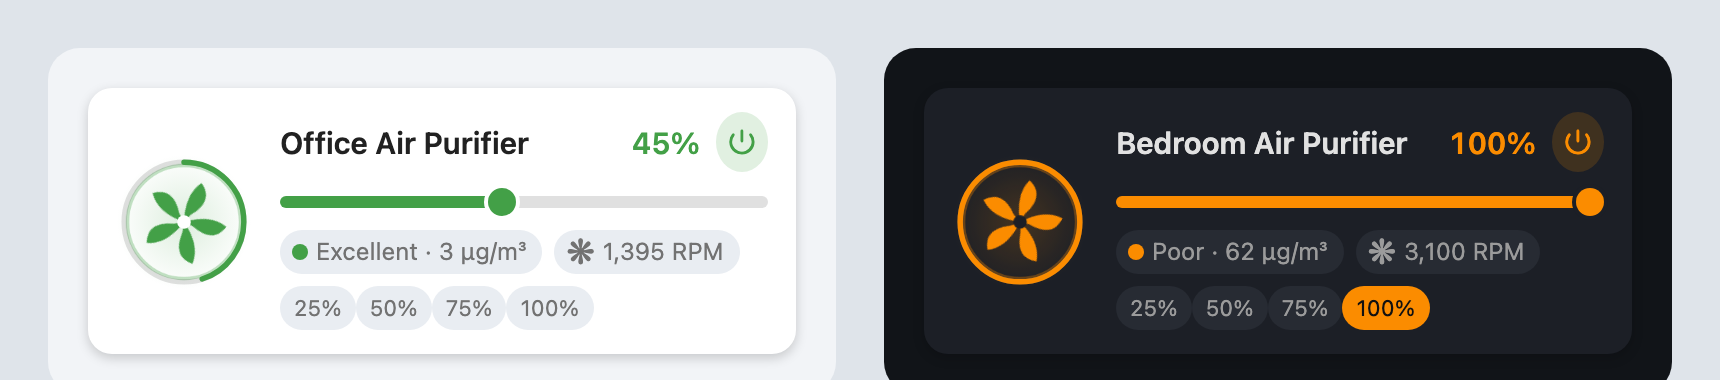
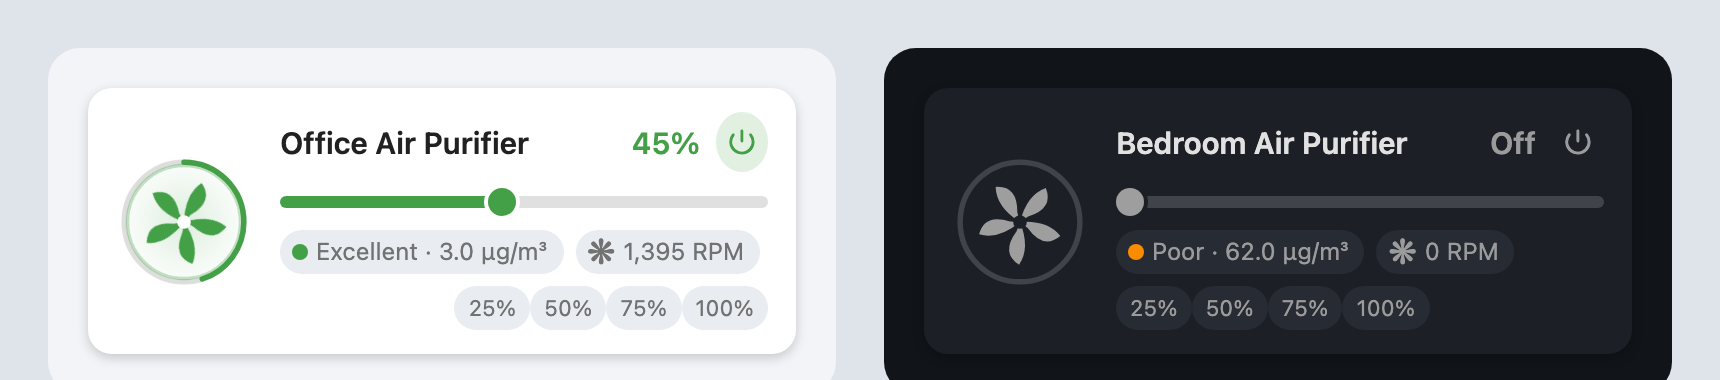
Grey the card when off and show PM2.5 with one decimal
The air quality colour now only tints the card while the purifier runs;
once it is off the ring, slider, percentage and blades fall back to the
idle grey, while the air quality dot keeps its colour so the reading
stays legible.

PM2.5 is rendered with a fixed single decimal (3.0 instead of 3).

diff --git a/dist/air-purifier-card.js b/dist/air-purifier-card.js
@@ -4,7 +4,7 @@
  * https://github.com/iharosi/air-purifier-card
  */
 
-const CARD_VERSION = "1.0.0";
+const CARD_VERSION = "1.1.0";
 
 console.info(
   `%c AIR-PURIFIER-CARD %c v${CARD_VERSION} `,
@@ -108,7 +108,10 @@ class AirPurifierCard extends HTMLElement {
   _build() {
     this.shadowRoot.innerHTML = `
       <style>
-        :host { --ap-accent: var(--state-fan-active-color, var(--primary-color, #03a9f4)); }
+        :host {
+          --ap-accent: var(--state-fan-active-color, var(--primary-color, #03a9f4));
+          --ap-idle-color: var(--disabled-text-color, #9e9e9e);
+        }
         ha-card {
           display: block;
           padding: 12px 14px;
@@ -172,7 +175,7 @@ class AirPurifierCard extends HTMLElement {
           transition: fill 0.4s ease;
         }
         .visual.on .blades { animation: spin var(--spin, 2s) linear infinite; }
-        .visual.off .blades { fill: var(--disabled-text-color, #9e9e9e); }
+        .visual.off .blades { fill: var(--ap-idle-color); }
         @keyframes spin { to { transform: rotate(360deg); } }
         .hub { fill: var(--card-background-color, #fff); }
         /* -------- body -------- */
@@ -419,6 +422,25 @@ class AirPurifierCard extends HTMLElement {
       cfg.name || fan?.attributes?.friendly_name || cfg.fan;
 
     const on = !!fan && fan.state === "on";
+
+    // Air quality drives the accent colour while the purifier runs. The chip's
+    // dot keeps that colour even when it is off, everything else turns grey.
+    const pmValue = num(pm);
+    const level = aqLevel(pmValue);
+    this._accent = pm ? level.color : null;
+    if (pm) {
+      el.pmChip.classList.remove("hidden");
+      el.pmDot.style.background = level.color;
+      const unit = pm.attributes.unit_of_measurement || "µg/m³";
+      el.pmText.textContent =
+        pmValue === null
+          ? `PM2.5 ${pm.state}`
+          : `${level.label} · ${pmValue.toFixed(1)} ${unit}`;
+      el.pmChip.title = pm.attributes.friendly_name || cfg.pm25;
+    } else {
+      el.pmChip.classList.add("hidden");
+    }
+
     const percentage = Math.round(
       fan?.attributes?.percentage ?? (on ? 100 : 0)
     );
@@ -428,24 +450,6 @@ class AirPurifierCard extends HTMLElement {
     if (!this._dragging) {
       el.slider.value = String(percentage);
       this._paint(percentage, on);
-    }
-
-    // air quality drives the accent colour of the whole card
-    const pmValue = num(pm);
-    const level = aqLevel(pmValue);
-    if (pm) {
-      this.style.setProperty("--ap-accent", level.color);
-      el.pmChip.classList.remove("hidden");
-      el.pmDot.style.background = level.color;
-      const unit = pm.attributes.unit_of_measurement || "µg/m³";
-      el.pmText.textContent =
-        pmValue === null
-          ? `PM2.5 ${pm.state}`
-          : `${level.label} · ${pmValue} ${unit}`;
-      el.pmChip.title = pm.attributes.friendly_name || cfg.pm25;
-    } else {
-      this.style.removeProperty("--ap-accent");
-      el.pmChip.classList.add("hidden");
     }
 
     if (rpm) {
@@ -487,9 +491,16 @@ class AirPurifierCard extends HTMLElement {
     });
   }
 
-  /** Paint ring, spin speed and percentage label. */
+  /** Paint accent colour, ring, spin speed and percentage label. */
   _paint(percentage, on) {
     const el = this._el;
+    if (!on) {
+      this.style.setProperty("--ap-accent", "var(--ap-idle-color)");
+    } else if (this._accent) {
+      this.style.setProperty("--ap-accent", this._accent);
+    } else {
+      this.style.removeProperty("--ap-accent");
+    }
     const circumference = 2 * Math.PI * 44;
     el.ring.style.strokeDashoffset = String(
       circumference * (1 - percentage / 100)
